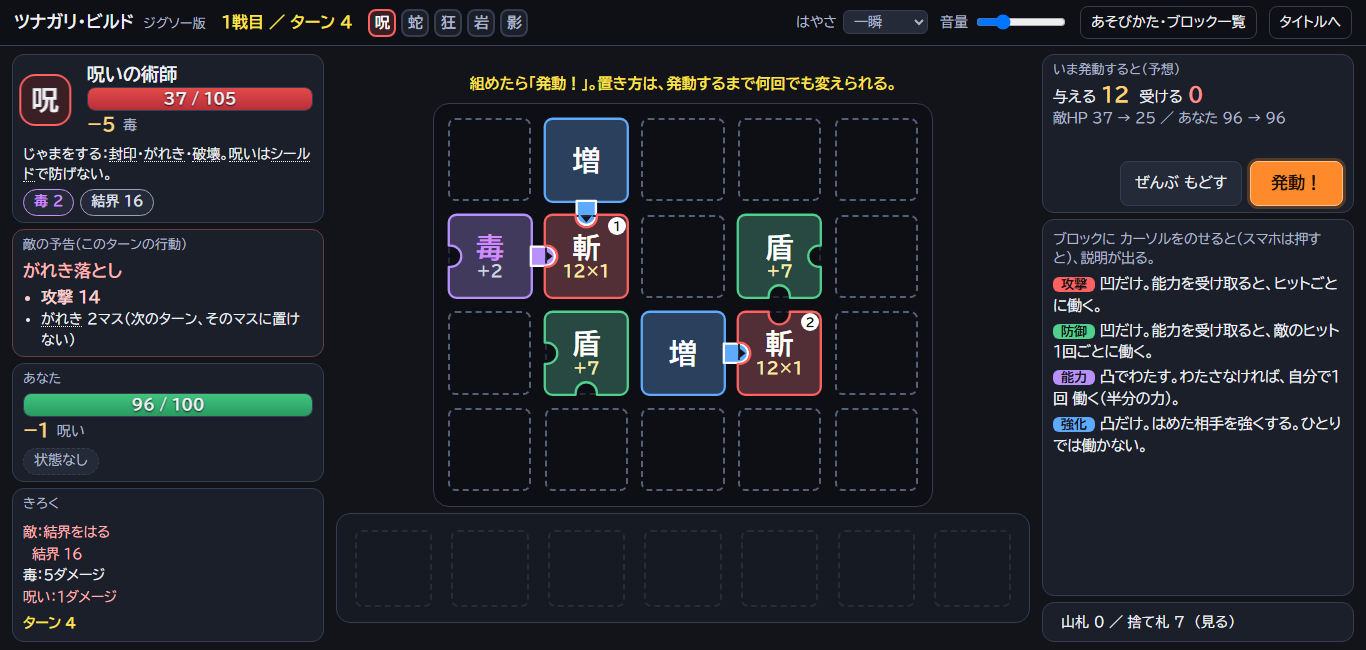
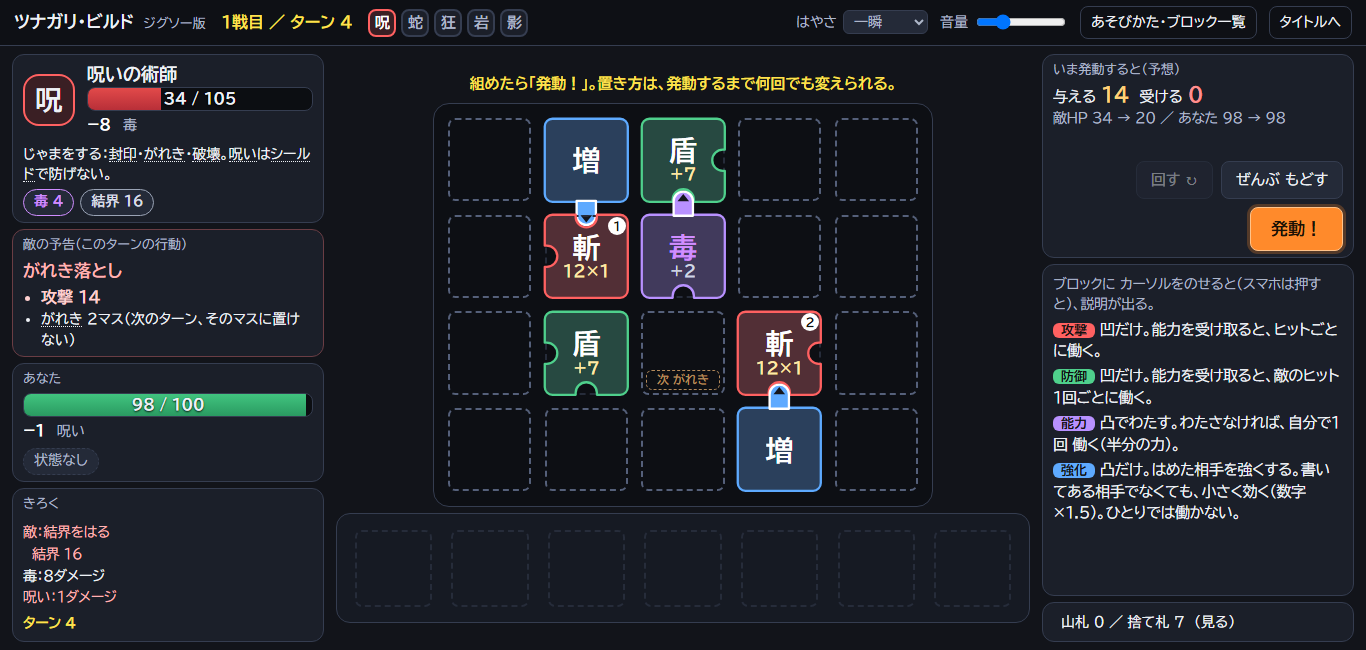
強化が「書いてある相手」でない相手に はまっても、小さく効く（相手の数字×1.5）ようにする（本人の答え 5B）
- 貫通・拡散・持続強化・効果変換・反射・吸収・反撃が、どのブロックに はめても何か起きる
- 盤面の印：書いてあるとおり＝色つきの凸、小さく効く＝点線の凸（灰色の×は なくなった）
- 倍率は rules.js の WEAK の1か所。増幅とは足し算（6×(1+1+0.5)）

diff --git a/rules.js b/rules.js
@@ -18,6 +18,7 @@
   const W = 5, H = 4, N = W * H, HAND = 7, MAXHP = 100;
   const SHOCK_AT = 8, SHOCK_DMG = 10, FREEZE_AT = 8, COUNTER_MAX = 2, HIT_CAP = 200;
   const STAGES = 5, PICKS = 2, HEAL_AFTER = 20;
+  const WEAK = 1.5; // 強化が「書いてある相手」でない相手に はまったときの倍率（小さく効く）
   // 何戦目かで敵が強くなる（HP と 攻撃の倍率）
   const STAGE_HP = [1, 1.2, 1.45, 1.7, 2.0], STAGE_ATK = [1, 1.1, 1.2, 1.3, 1.4];
 
@@ -82,7 +83,7 @@
     atk: '凹だけ。能力を受け取ると、ヒットごとに働く。',
     def: '凹だけ。能力を受け取ると、敵のヒット1回ごとに働く。',
     abil: '凸でわたす。わたさなければ、自分で1回 働く（半分の力）。',
-    enh: '凸だけ。はめた相手を強くする。ひとりでは働かない。',
+    enh: `凸だけ。はめた相手を強くする。書いてある相手でなくても、小さく効く（数字×${WEAK}）。ひとりでは働かない。`,
   };
   // ことばの説明（画面はこれをそのまま出す）
   const KW = {
@@ -147,7 +148,8 @@
   }
   const rd = x => Math.round(x);
 
-  // どの組が「効く」か（画面の印も、計算も、この1つの表を使う）。 g … わたす側の種類、x … 受け取る側のブロック
+  // どの組が「書いてあるとおりに効く」か（画面の印も、計算も、この1つの表を使う）。 g … わたす側の種類、x … 受け取る側のブロック
+  // false の組も はまれば「小さく効く」（相手の数字×WEAK。derive で m.weak）。
   function accepts(g, x) {
     const gf = B[g].fam;
     if (gf === 'abil') return true; // 能力 → 攻撃・防御・能力（能力が相手のときは、相手が自分で働くときだけ。derive で見る）
@@ -186,11 +188,13 @@
         links.push(ln); A.outs.push(ln); X.ins.push(ln);
       }
     }
-    // 2. 強化（わたした相手に効くか）
+    // 2. 強化（書いてある相手なら そのとおりに。ちがう相手なら 小さく効く＝数字×WEAK）
     for (const ln of links) {
       const A = blk[ln.from], X = blk[ln.to];
       if (A.fam !== 'enh') continue;
-      if (accepts(A.type, X)) { ln.ok = true; X.m[A.type] = (X.m[A.type] || 0) + 1; }
+      ln.ok = true;
+      if (accepts(A.type, X)) X.m[A.type] = (X.m[A.type] || 0) + 1;
+      else { ln.weak = true; X.m.weak = (X.m.weak || 0) + 1; }
     }
     const targetsAll = cells.filter(i => blk[i].fam === 'atk' || blk[i].fam === 'def');
     // 3. 能力ブロック：わたすか、自分で働くか。
@@ -210,7 +214,7 @@
       A.gives = gives; state[i] = 2; return gives;
     }
     for (const i of cells) if (blk[i].fam === 'abil') settle(i);
-    const multOf = m => 1 + (m.amp || 0) * (V('amp') - 1), againOf = m => 1 + (m.haste || 0) * V('haste');
+    const multOf = m => 1 + (m.amp || 0) * (V('amp') - 1) + (m.weak || 0) * (WEAK - 1), againOf = m => 1 + (m.haste || 0) * V('haste');
     const giftOf = A => ({ kind: A.type, amt: rd(V(A.type) * multOf(A.m)), times: againOf(A.m), cell: A.cell, pierce: !!A.m.pierce, bonus: (A.m.pierce || 0) * V('pierce') });
     for (const i of cells) {
       const A = blk[i]; if (A.fam !== 'abil') continue;
@@ -308,8 +312,8 @@
       if (m.sustain) out.lines.push(X.type === 'poison' ? 'このターンの終わりに 毒がへらない' : `炎が${V('sustain')}%残る`);
     } else {
       out.gives = X.live; out.idle = !X.live;
-      if (X.live) out.lines.push(`${X.outs.filter(ln => ln.ok).map(ln => B[d.blk[ln.to].type].name).join('・')} を強くしている`);
-      else out.lines.push(X.outs.length ? 'はまっているが、この相手には効かない。' : 'どこにも はまっていない（働かない）。');
+      if (X.live) out.lines.push(X.outs.filter(ln => ln.ok).map(ln => B[d.blk[ln.to].type].name + (ln.weak ? `（小さく効く：数字×${WEAK}）` : '')).join('・') + ' を強くしている');
+      else out.lines.push('どこにも はまっていない（働かない）。');
     }
     if (m.refire) out.lines.push('次のターンも引く');
     return out;
@@ -498,7 +502,7 @@
     if (s.phase !== 'place' || s.hand.indexOf(id) < 0) return false;
     s.cards[id].rot = (s.cards[id].rot + 1) & 3; return true;
   }
-  // 置く前に見せる用：id を cell に置いたら、そのブロックに はまる所（効く・効かない）
+  // 置く前に見せる用：id を cell に置いたら、そのブロックに はまる所（効く・小さく効く）
   function linksIfPut(s, id, cell) {
     const c = cloneState(s); if (!put(c, id, cell)) return null;
     const d = derive(c);
@@ -739,7 +743,7 @@
   }
 
   return {
-    W, H, N, HAND, MAXHP, SHOCK_AT, SHOCK_DMG, FREEZE_AT, COUNTER_MAX, STAGES, PICKS, HEAL_AFTER, STAGE_HP, STAGE_ATK,
+    W, H, N, HAND, MAXHP, WEAK, SHOCK_AT, SHOCK_DMG, FREEZE_AT, COUNTER_MAX, STAGES, PICKS, HEAL_AFTER, STAGE_HP, STAGE_ATK,
     B, TYPES, FAMS, FAM_HINT, KW, STATUS_NAMES, TERMS, TERM_WORDS, termText, ENEMIES, ENEMY_IDS, START_DECK, NB, INNER,
     blockText, maxLv, lvOf, val, edges, accepts, derive, destroyTargets, giftText, summary, intentLines,
     newFight, cloneState, beginTurn, makeIntent, cellOf, canPut, put, take, clearBoard, rotate, linksIfPut,

diff --git a/tests.js b/tests.js
@@ -119,14 +119,23 @@ eq('持続強化なしなら 炎は消える', go([['fire', 1, 6]], { e: { fire:
   eq('拡散→毒：盾にも とどく（敵の4ヒットで 毒+2 が4回）', r2.gifts('poison'), 4);
   eq('拡散→毒：攻撃も防御もなければ、自分で1回', go([['spread', 1, 1], ['poison', 1, 6]]).gifts('poison'), 1);
 }
-{ // 効かない組：はまっても何も起きない（線は「効かない」になる）
-  eq('貫通→盾 は効かない', okLinks(mk([['pierce', 1, 1], ['shield', 0, 6]])), '1>6×');
-  eq('拡散→斬撃 は効かない', okLinks(mk([['spread', 1, 1], ['slash', 0, 6]])), '1>6×');
-  eq('反射→回避 は効かない', okLinks(mk([['mirror', 1, 1], ['dodge', 0, 6]])), '1>6×');
-  eq('持続強化→斬撃 は効かない', okLinks(mk([['sustain', 1, 1], ['slash', 0, 6]])), '1>6×');
-  eq('効かない強化は「働いていない」', R.summary(R.derive(mk([['pierce', 1, 1], ['shield', 0, 6]])), 1).idle, true);
+{ // 書いてある相手でない組：はまると「小さく効く」（相手の数字×1.5。本人の答え 5B）
+  eq('小さく効く倍率は1.5', R.WEAK, 1.5);
+  eq('貫通→盾 も はまる（線は効く側）', okLinks(mk([['pierce', 1, 1], ['shield', 0, 6]])), '1>6');
+  ok('貫通→盾 は「小さく効く」の線', R.derive(mk([['pierce', 1, 1], ['shield', 0, 6]])).links[0].weak === true);
+  ok('貫通→斬撃 は書いてある相手なので「小さく効く」ではない', !R.derive(mk([['pierce', 1, 1], ['slash', 0, 6]])).links[0].weak);
+  eq('貫通→盾：シールド 7×1.5 = 11（四捨五入）→ 敵の14のうち 受けるのは3', go([['pierce', 1, 1], ['shield', 0, 6]], { parts: [A(14)] }).taken, 3);
+  eq('拡散→斬撃：6×1.5 = 9ダメージ', go([['spread', 1, 1], ['slash', 0, 6]]).dealt, 9);
+  eq('持続強化→斬撃：6×1.5 = 9ダメージ', go([['sustain', 1, 1], ['slash', 0, 6]]).dealt, 9);
+  eq('反射→回避：1×1.5 → 2回よける（敵の 5×3 で受けるのは5）', go([['mirror', 1, 1], ['dodge', 0, 6]], { parts: [A(5, 3)] }).taken, 5);
+  eq('増幅と小さく効くは 足し算：斬撃 6×(1 +1 +0.5) = 15', go([['amp', 1, 1], ['slash', 0, 6], ['spread', 0, 5]]).dealt, 15);
+  eq('能力にも：持続強化→再生 の わたす数字は 2×1.5 = 3', R.derive(mk([['sustain', 1, 1], ['regen', 1, 6], ['shield', 0, 11]])).blk[6].gift.amt, 3);
+  const sum = R.summary(R.derive(mk([['pierce', 1, 1], ['shield', 0, 6]])), 1);
+  eq('小さく効く強化は「働いている」', sum.idle, false);
+  ok('小さく効く強化の説明に「小さく効く」と書いてある', sum.lines.join('').indexOf('小さく効く') >= 0, sum.lines.join(''));
   eq('効く強化は「働いている」', R.summary(R.derive(mk([['amp', 1, 1], ['shield', 0, 6]])), 1).idle, false);
-  eq('貫通→盾 でも盾はふつうに働く', go([['pierce', 1, 1], ['shield', 0, 6]], { parts: [A(10)] }).taken, 3);
+  eq('はまっていない強化は「働いていない」', R.summary(R.derive(mk([['pierce', 0, 1]])), 1).idle, true);
+  ok('系統の説明に「小さく効く」が書いてある', R.FAM_HINT.enh.indexOf('小さく効く') >= 0);
 }
 
 // ------------------------------------------------------------ 4. 能力：ひとり＝1回／攻撃に わたす＝ヒットごと／防御に わたす＝敵のヒットごと

diff --git a/ui.js b/ui.js
@@ -69,7 +69,7 @@
     let svg = `<svg viewBox="0 0 100 100" aria-hidden="true"><path class="pc-body" d="${bodyPath(e)}"/>`;
     for (let k = 0; k < 4; k++) if (e[k] === 1) {
       const ln = X ? X.outs.find(l => l.side === k) : null, len = ln ? 24 : 14;
-      svg += `<path class="pc-tab${ln ? (ln.ok ? ' on' : ' off') : ''}"${ln ? ` data-link="${ln.from}-${ln.to}" data-ok="${ln.ok ? 1 : 0}"` : ''} d="${tabPath(k, len)}"/>`;
+      svg += `<path class="pc-tab${ln ? (ln.ok ? (ln.weak ? ' on wk' : ' on') : ' off') : ''}"${ln ? ` data-link="${ln.from}-${ln.to}" data-ok="${ln.ok ? 1 : 0}"` : ''} d="${tabPath(k, len)}"/>`;
       if (ln) svg += ln.ok ? `<path class="pc-arrow" d="${arrowPath(k, len)}"/>` : `<path class="pc-x" d="${crossPath(k, len)}"/>`;
     }
     svg += '</svg>';
@@ -645,7 +645,7 @@
     p.textContent = JSON.stringify(Object.assign({ w: window.innerWidth, h: window.innerHeight, turn: G.s ? G.s.turn : 0, screen: { items: lc.textItems, chars: lc.textChars, by: lc.textBy } }, CHECK));
   }
   let autoSeed = 12345; const autoRand = () => { autoSeed = (autoSeed * 1103515245 + 12345) & 0x7fffffff; return autoSeed / 0x7fffffff; };
-  // 盤面の絵（はまっている凸・効く効かない・番号・札の字・働いていない印）が、計算と同じか
+  // 盤面の絵（はまっている凸・効く・小さく効く・番号・札の字・働いていない印）が、計算と同じか
   function checkBoardDisplay() {
     const s = G.s, d = R.derive(s);
     const want = d.links.map(l => `${l.from}-${l.to}:${l.ok ? 1 : 0}`).sort().join(' ');

diff --git a/style.css b/style.css
@@ -138,6 +138,7 @@ a { color: inherit; }
 .pc .pc-body { fill: color-mix(in srgb, var(--fc) 24%, #1b1f29); stroke: var(--fc); stroke-width: 2.4; stroke-linejoin: round; pointer-events: auto; }
 .pc .pc-tab { fill: color-mix(in srgb, var(--fc) 55%, #1b1f29); stroke: var(--fc); stroke-width: 2.4; stroke-linejoin: round; pointer-events: auto; }
 .pc .pc-tab.on { fill: var(--fc); stroke: #fff; }
+.pc .pc-tab.on.wk { fill: color-mix(in srgb, var(--fc) 45%, #1b1f29); stroke: #fff; stroke-dasharray: 3 2; }
 .pc .pc-tab.off { fill: #3a4050; stroke: #8a93a6; stroke-dasharray: 4 3; }
 .pc .pc-arrow { fill: #14161c; }
 .pc .pc-x { stroke: #ff9c9c; stroke-width: 3; stroke-linecap: round; }

diff --git a/CLAUDE.md b/CLAUDE.md
@@ -19,7 +19,7 @@
 ## きまり
 - ルールを変えたら `node tests.js` と `node check.js` を通す。数字を変えたら `node bot.js` の表も見る（`runs` の「ためして選ぶ」「でたらめに選ぶ」「取らない」の3行と、`adapt`）。
 - 画面の側で条件や数字を書き直さない（`rules.js` の `derive` / `summary` / `giftText` / `intentLines` / `destroyTargets` / `linksIfPut` を使う）。ことばの説明（のせると出る文）は `rules.js` の `TERMS` に足す。画面で ことば に印を付けるのは `tipify`（文の中）か `data-tip`（ふだ・印）。
-- 凸凹の「効く・効かない」は `rules.js` の `accepts` の表1つで決める。画面の印（色つきの凸＝効く、灰色に×＝効かない）も同じ表から出す。
+- 凸凹の「書いてあるとおりに効く・小さく効く（数字×WEAK）」は `rules.js` の `accepts` の表1つで決める。画面の印（色つきの凸＝効く、点線の凸＝小さく効く）も同じ表から出す。
 - 演出用の CSS の class は `fx-` で始める。「はまる所」の表示の class は `lk-` で始める。ブロックの絵の class は `pc-` で始める。
 - 札の上に字を足すときは、スマホ幅（マス71px）で重ならないかを `node check.js only=phone` で見る（レベルは字でなく点にしてある）。
 - くらべる用の切りかえ：`?rot=1`（ブロックを回せる）。決まったら消して、決めた方に固定する。
